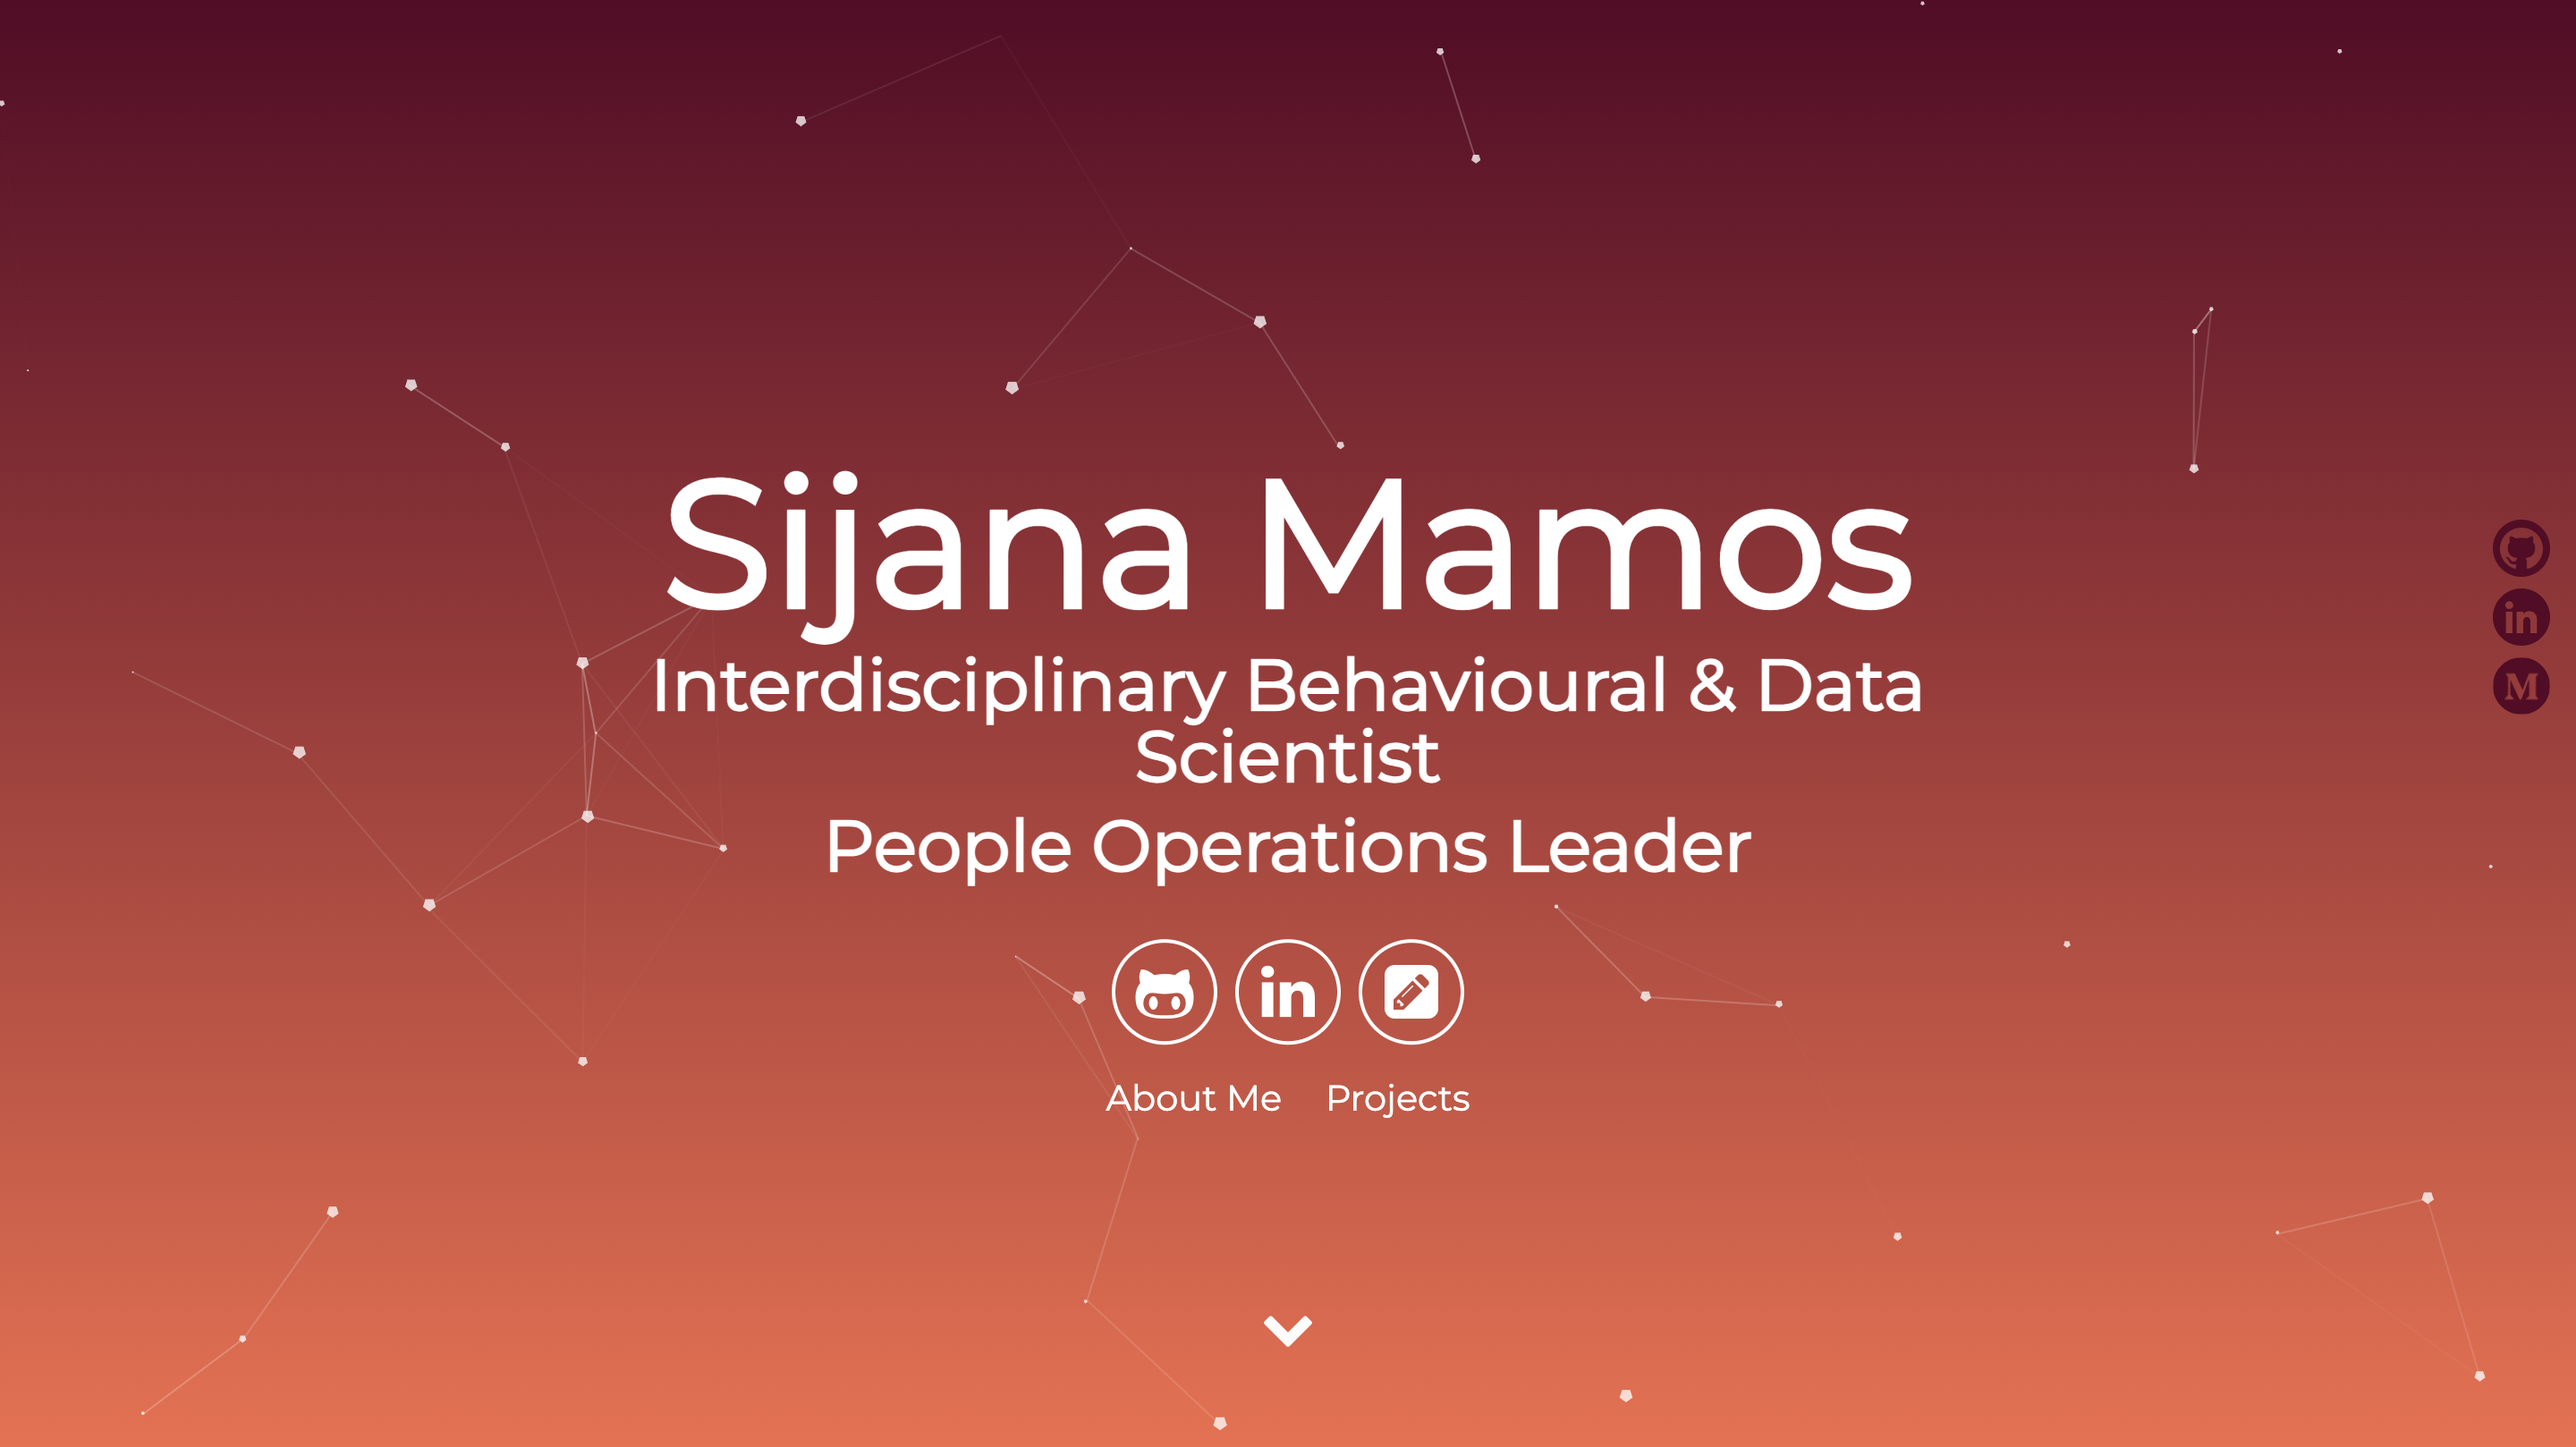
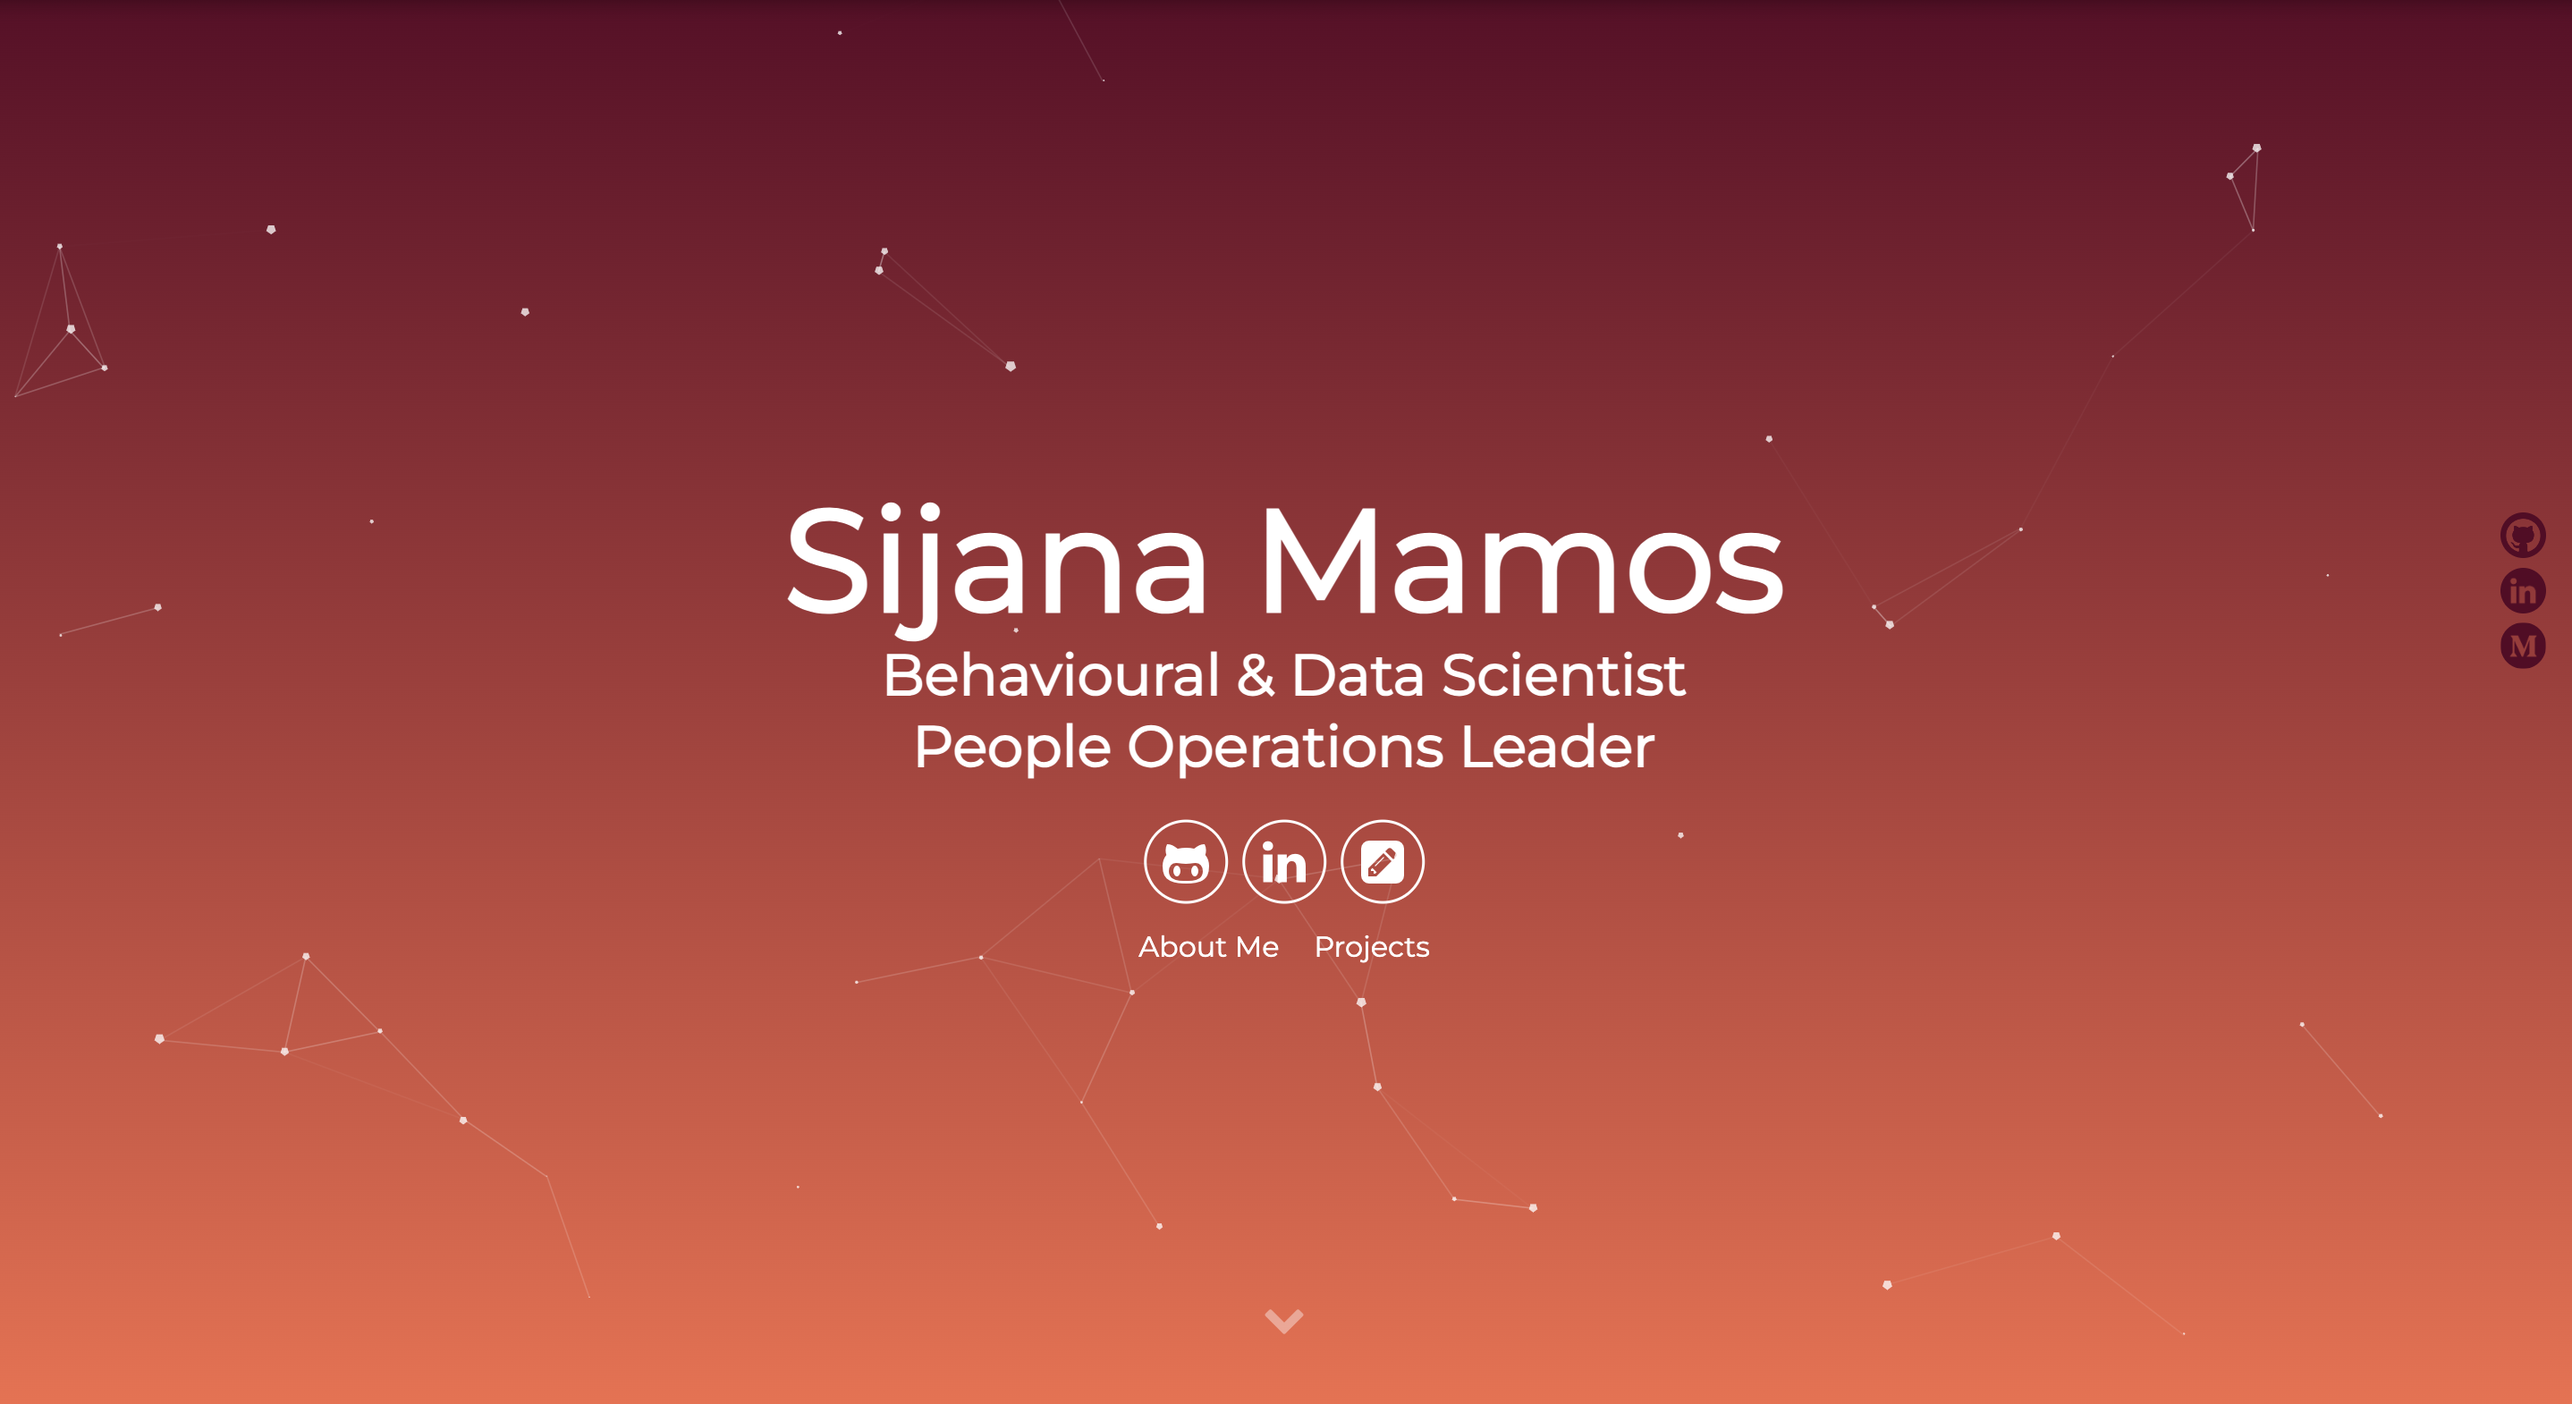
Header Update

diff --git a/_includes/header.html b/_includes/header.html
@@ -2,7 +2,7 @@
   <div class="header">
       <h1>
         <span class="site-title">{{site.username}}</span>
-        <span class="site-description">Interdisciplinary Behavioural & Data Scientist</span>
+        <span class="site-description">Behavioural & Data Scientist</span>
         <span class="site-description">People Operations Leader</span>
       </h1>
       <div class="header-icons">

diff --git a/_site/index.html b/_site/index.html
@@ -25,7 +25,7 @@
   <div class="header">
       <h1>
         <span class="site-title">Sijana Mamos</span>
-        <span class="site-description">Interdisciplinary Behavioural & Data Scientist</span>
+        <span class="site-description">Behavioural & Data Scientist</span>
         <span class="site-description">People Operations Leader</span>
       </h1>
       <div class="header-icons">
